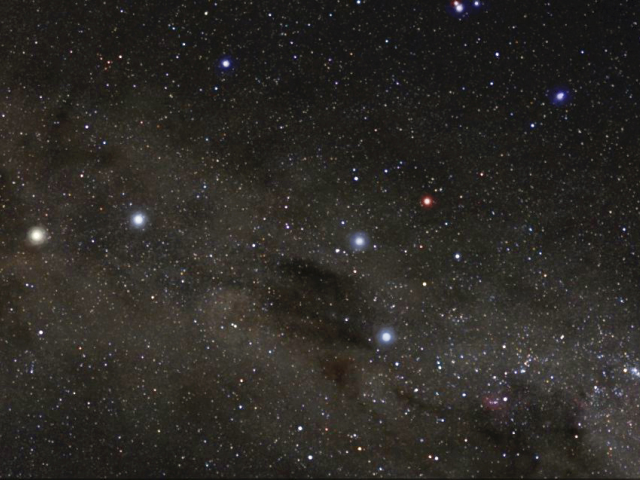
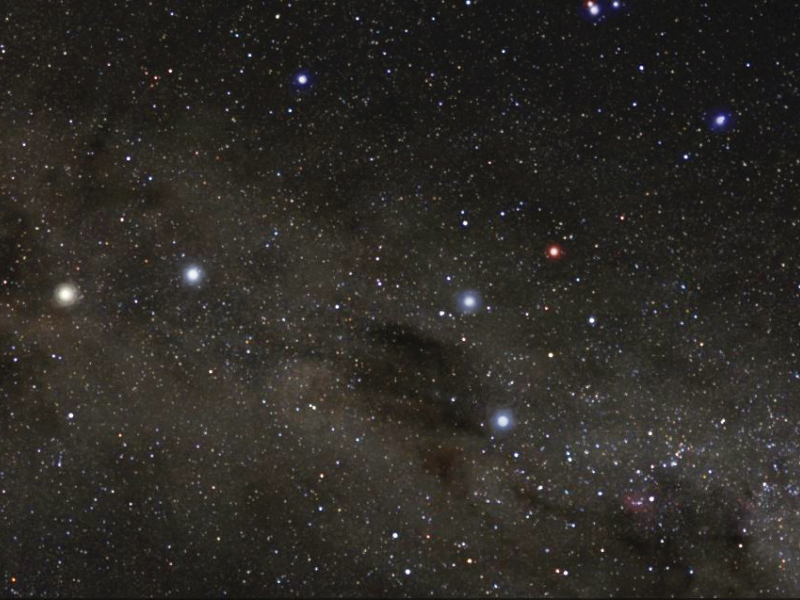
Zmieniona wielkosc okienka na 800x600, zmodyfikowane tlo

diff --git a/include/consts.h b/include/consts.h
@@ -7,9 +7,9 @@
  */
 
 /// @brief Szerokość okienka
-const int SCREENWIDTH=640;
+const int SCREENWIDTH=800;
 /// @brief Wysokość okienka
-const int SCREENHEIGHT=480;
+const int SCREENHEIGHT=600;
 /// @brief Głębia koloru
 const int BPP=32;
 
